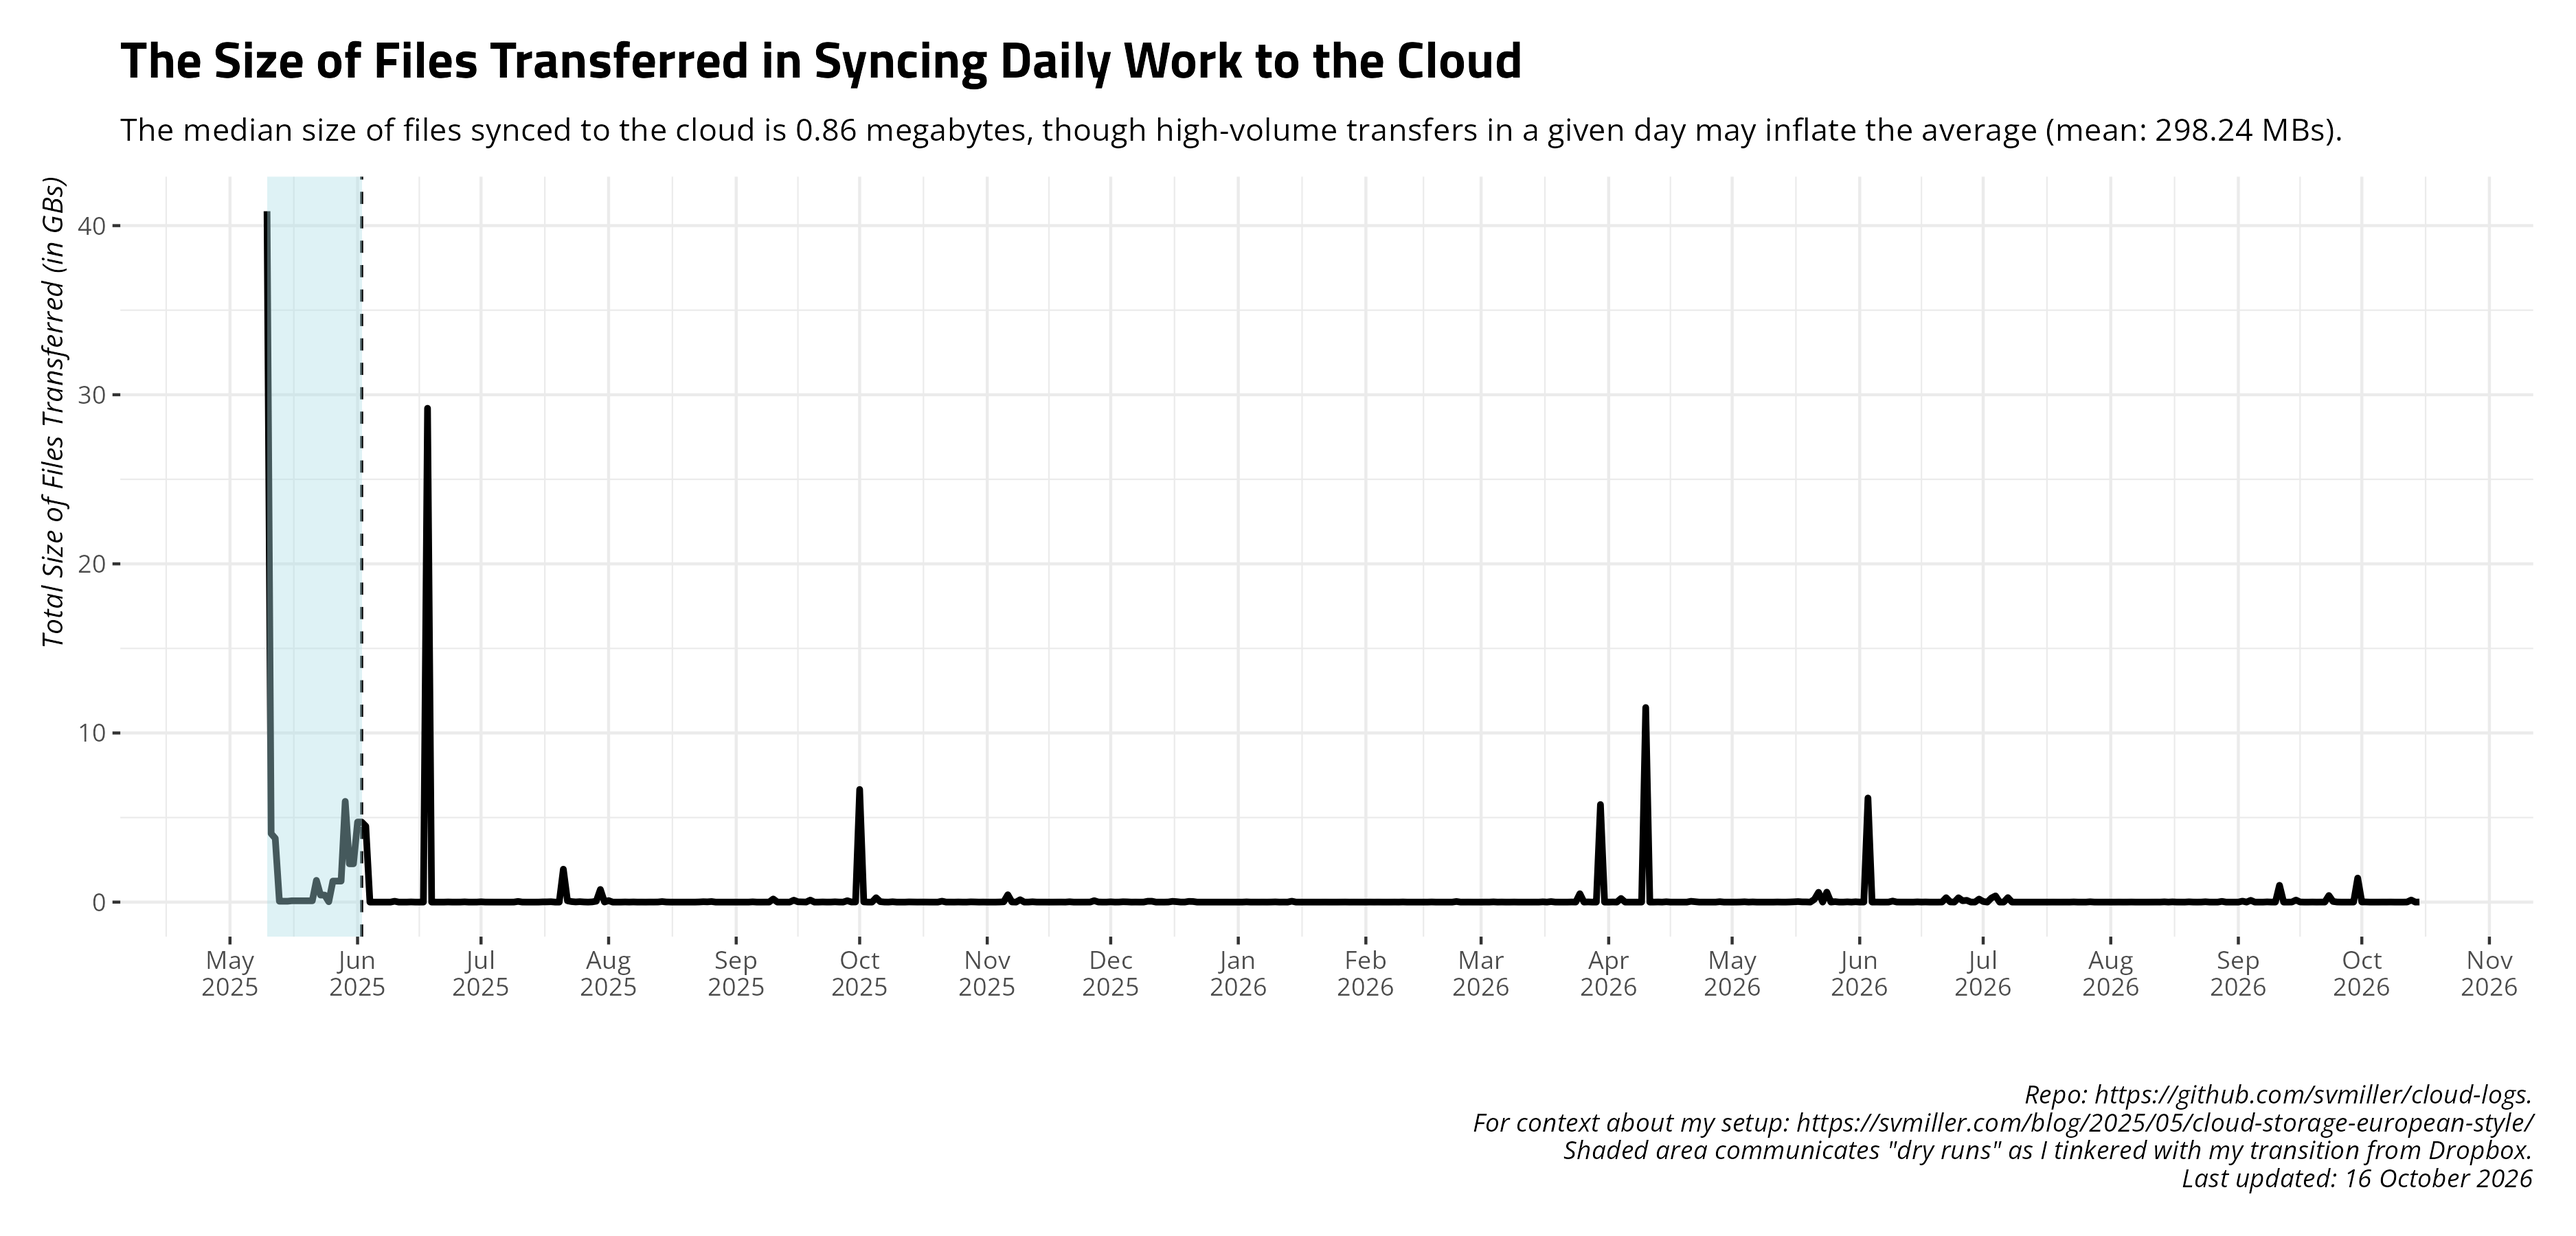
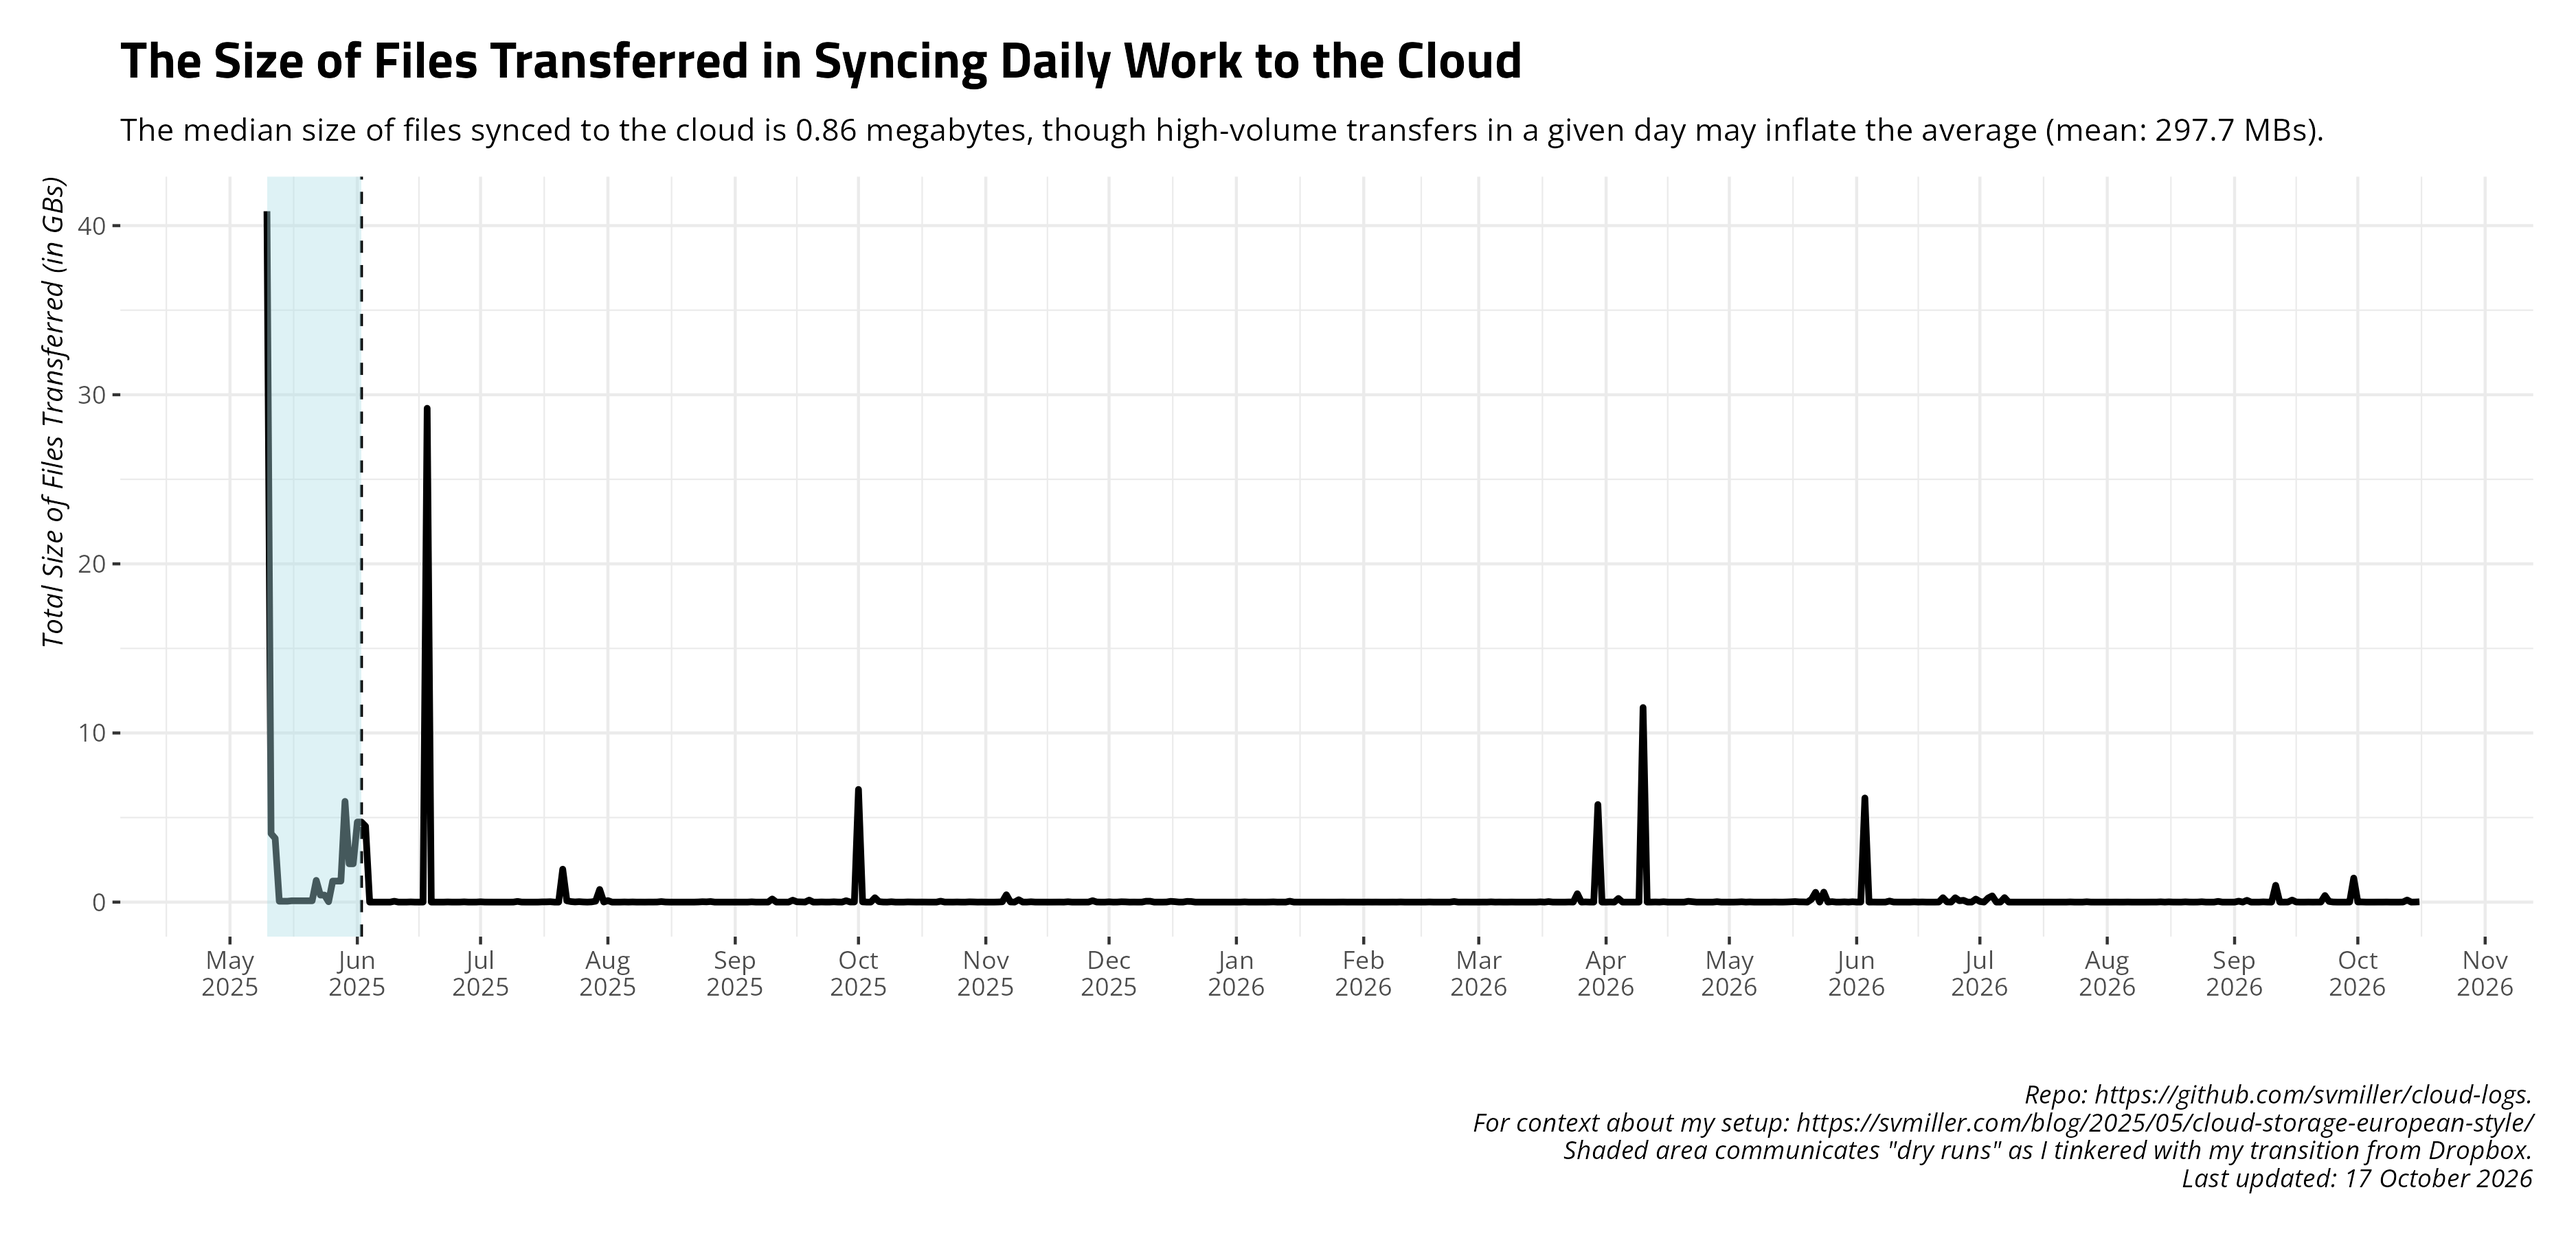
Date: 2026-10-17 09:00:35. Hi mom!

diff --git a/README.md b/README.md
@@ -27,17 +27,17 @@ and uploads to Github.
     #> # A tibble: 14 × 4
     #>    date       ftransfer stransfer   elapsed 
     #>    <date>         <dbl> <chr>       <chr>   
-    #>  1 2026-10-02        29 8.205 MiB   14m8.7s 
-    #>  2 2026-10-03         0 <NA>        4m42.9s 
-    #>  3 2026-10-04         0 <NA>        5m49.6s 
-    #>  4 2026-10-05        20 250.633 KiB 5m33.2s 
-    #>  5 2026-10-06        29 1.902 MiB   4m55.6s 
-    #>  6 2026-10-07        20 1.280 MiB   4m34.0s 
-    #>  7 2026-10-08         5 4.005 MiB   5m32.5s 
-    #>  8 2026-10-09         1 4.059 KiB   4m49.4s 
-    #>  9 2026-10-10         0 <NA>        4m23.0s 
-    #> 10 2026-10-11         0 <NA>        4m47.3s 
-    #> 11 2026-10-12       112 4.979 MiB   10m31.4s
-    #> 12 2026-10-13         8 124.477 MiB 47m23.4s
-    #> 13 2026-10-14         0 <NA>        27m16.0s
-    #> 14 2026-10-15         9 5.339 MiB   26m53.8s
+    #>  1 2026-10-03         0 <NA>        4m42.9s 
+    #>  2 2026-10-04         0 <NA>        5m49.6s 
+    #>  3 2026-10-05        20 250.633 KiB 5m33.2s 
+    #>  4 2026-10-06        29 1.902 MiB   4m55.6s 
+    #>  5 2026-10-07        20 1.280 MiB   4m34.0s 
+    #>  6 2026-10-08         5 4.005 MiB   5m32.5s 
+    #>  7 2026-10-09         1 4.059 KiB   4m49.4s 
+    #>  8 2026-10-10         0 <NA>        4m23.0s 
+    #>  9 2026-10-11         0 <NA>        4m47.3s 
+    #> 10 2026-10-12       112 4.979 MiB   10m31.4s
+    #> 11 2026-10-13         8 124.477 MiB 47m23.4s
+    #> 12 2026-10-14         0 <NA>        27m16.0s
+    #> 13 2026-10-15         9 5.339 MiB   26m53.8s
+    #> 14 2026-10-16       147 17.869 MiB  25m51.8s
